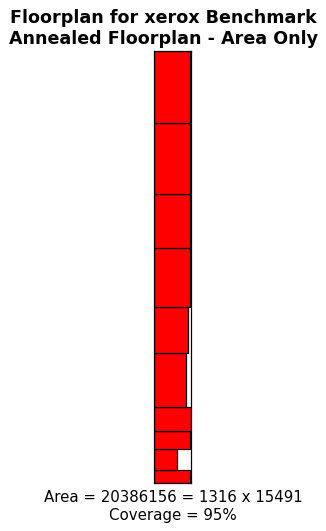
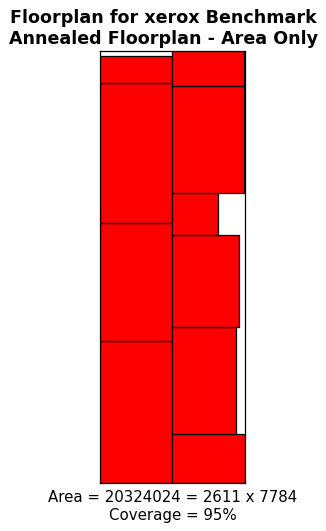
Add updating function - swap two random operands

diff --git a/annealer.py b/annealer.py
@@ -21,11 +21,11 @@ annealingParameters = classes.AnnealingParameters(100,.85,5,.05,1,1)
 def updateSolutionRandomChain(root,rectangles,dictionary):
 	polishArray = utils.getPolishArray(root)
 
-	# Choose random number from 0 to n-2
-	m = random.randint(0,len(rectangles)-2)
-	n = random.randint(m,len(rectangles)-2)
+	# Choose random number from 0 to n-2 (for n modules, there are n-1 operators and indices thus range over [0,n-1-1])
+	m = random.randint(0,len(rectangles)-1-1)
+	n = random.randint(m,len(rectangles)-1-1)
 	count = -1
-	index = 0
+	index = -1
 
 	while (count<n):
 		index += 1 # must increment from previous round
@@ -35,7 +35,7 @@ def updateSolutionRandomChain(root,rectangles,dictionary):
 
 		count += 1
 
-		if (count>m):
+		if (count>=m):
 			if polishArray[index] == '-':
 				polishArray[index] = '|'
 			else:
@@ -46,7 +46,7 @@ def updateSolutionRandomChain(root,rectangles,dictionary):
 	return newRoot;
 
 #####################################################################################################################
-# Find a node where the right node can fit within the white space of the left and collapse that subtree 1 node
+# METHOD 2: Find a node where the right node can fit within the white space of the left and collapse that subtree 1 node
 def updateSolutionFitNode(root,rectangles,dictionary):
 	newRoot = deepcopy(root)
 
@@ -106,16 +106,59 @@ def fitRightInLeft(node):
 
 	return False
 #####################################################################################################################
+# METHOD 3: Swap 2 random operands
+def updateSwapOperands(root,rectangles,dictionary):
+	polishArray = utils.getPolishArray(root)
+
+	# Choose random number from 0 to n-1.  
+	m = random.randint(0,len(rectangles)-1)
+
+	# Ensure they are unequal.
+	n = random.randint(0,len(rectangles)-2)
+	if n>=m:
+		n = n+1
+
+	count = -1
+	index = -1
+	indexM = -1
+	indexN = -1
+
+	# Find the indices in the polishArray for the mth and nth operand
+	while (count<n or count<m):
+		index += 1 # must increment from previous round
+
+		while polishArray[index] == '-' or polishArray[index] == '|':
+			index += 1
+
+		count += 1
+
+		if count==m:
+			indexM = index
+		elif count==n:
+			indexN = index
+
+	
+	# Swap operands
+	temp = polishArray[indexM]
+	polishArray[indexM] = polishArray[indexN]
+	polishArray[indexN] = temp
+
+	# Construct new tree of nodes from the new polish expression
+	newRoot = utils.getTreeFromPolishArray(polishArray,rectangles,dictionary)
+
+	return newRoot;
 
 
 
+#####################################################################################################################
+#####################################################################################################################
 
-
+# This function is the annealer
 def anneal(dataset, annealingParameters, cost, outputPrefix,scenario):
 	# Solutions will be represented by roots to a slicing tree
 
 	# Setup
-	updateMethods = [updateSolutionRandomChain,updateSolutionFitNode]
+	updateMethods = [updateSolutionRandomChain,updateSolutionFitNode,updateSwapOperands]
 	#updateMethods = [updateSolutionRandomChain]
 	start = time.time()
 	(initialSolution, rectangles, dictionary, matrix) = initializeMatchPairs(dataset)
